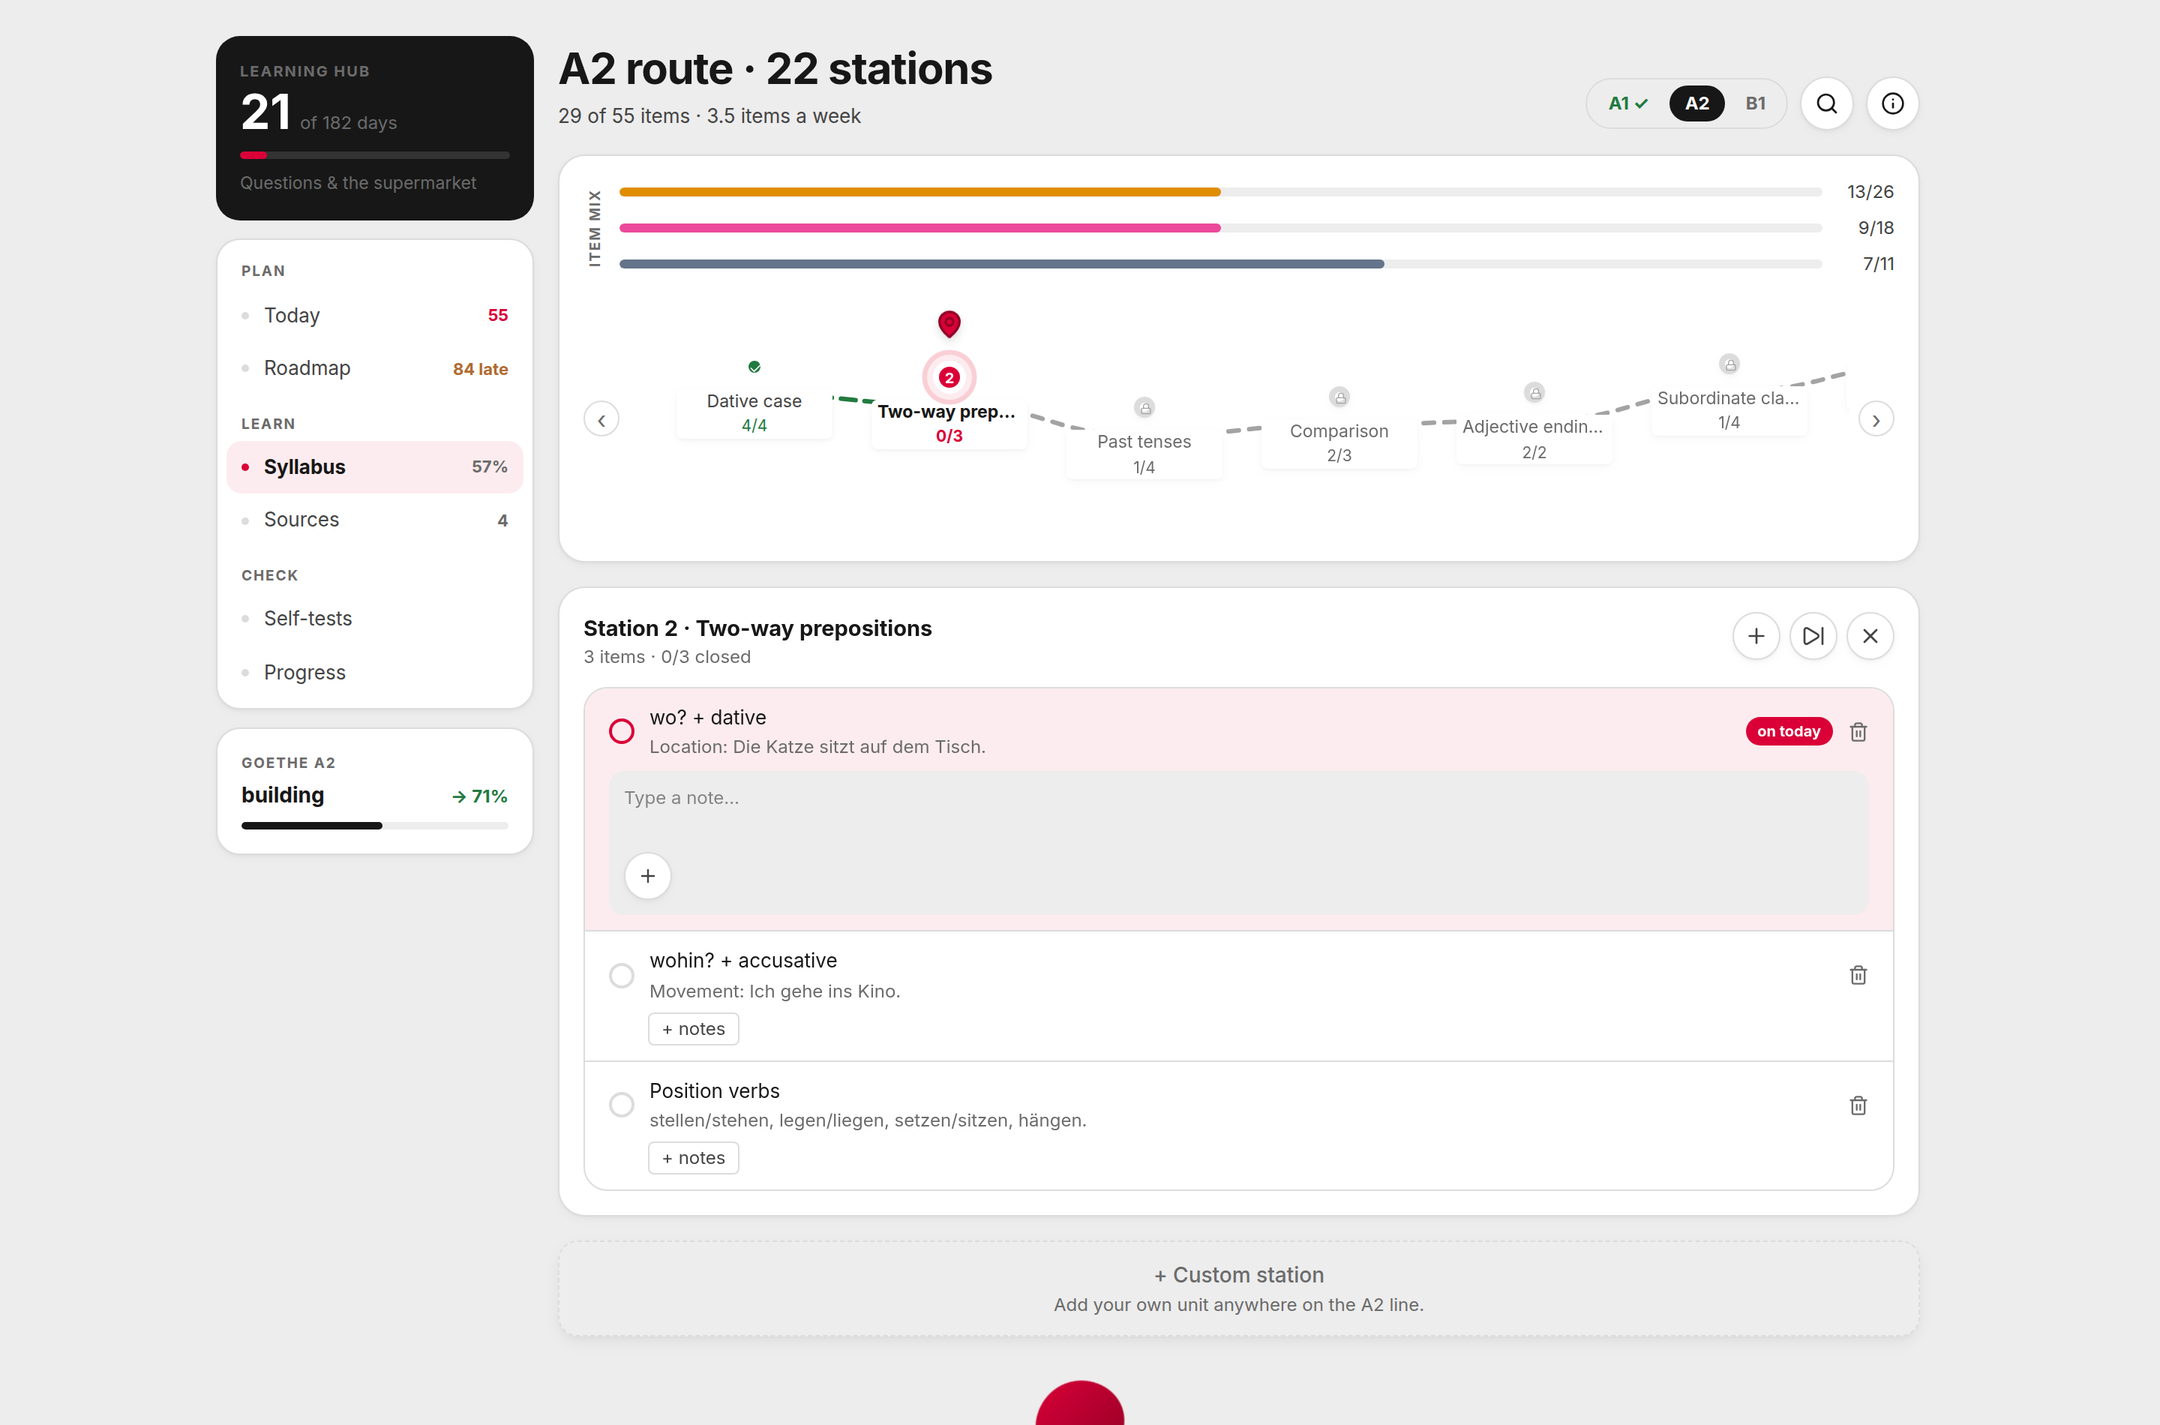
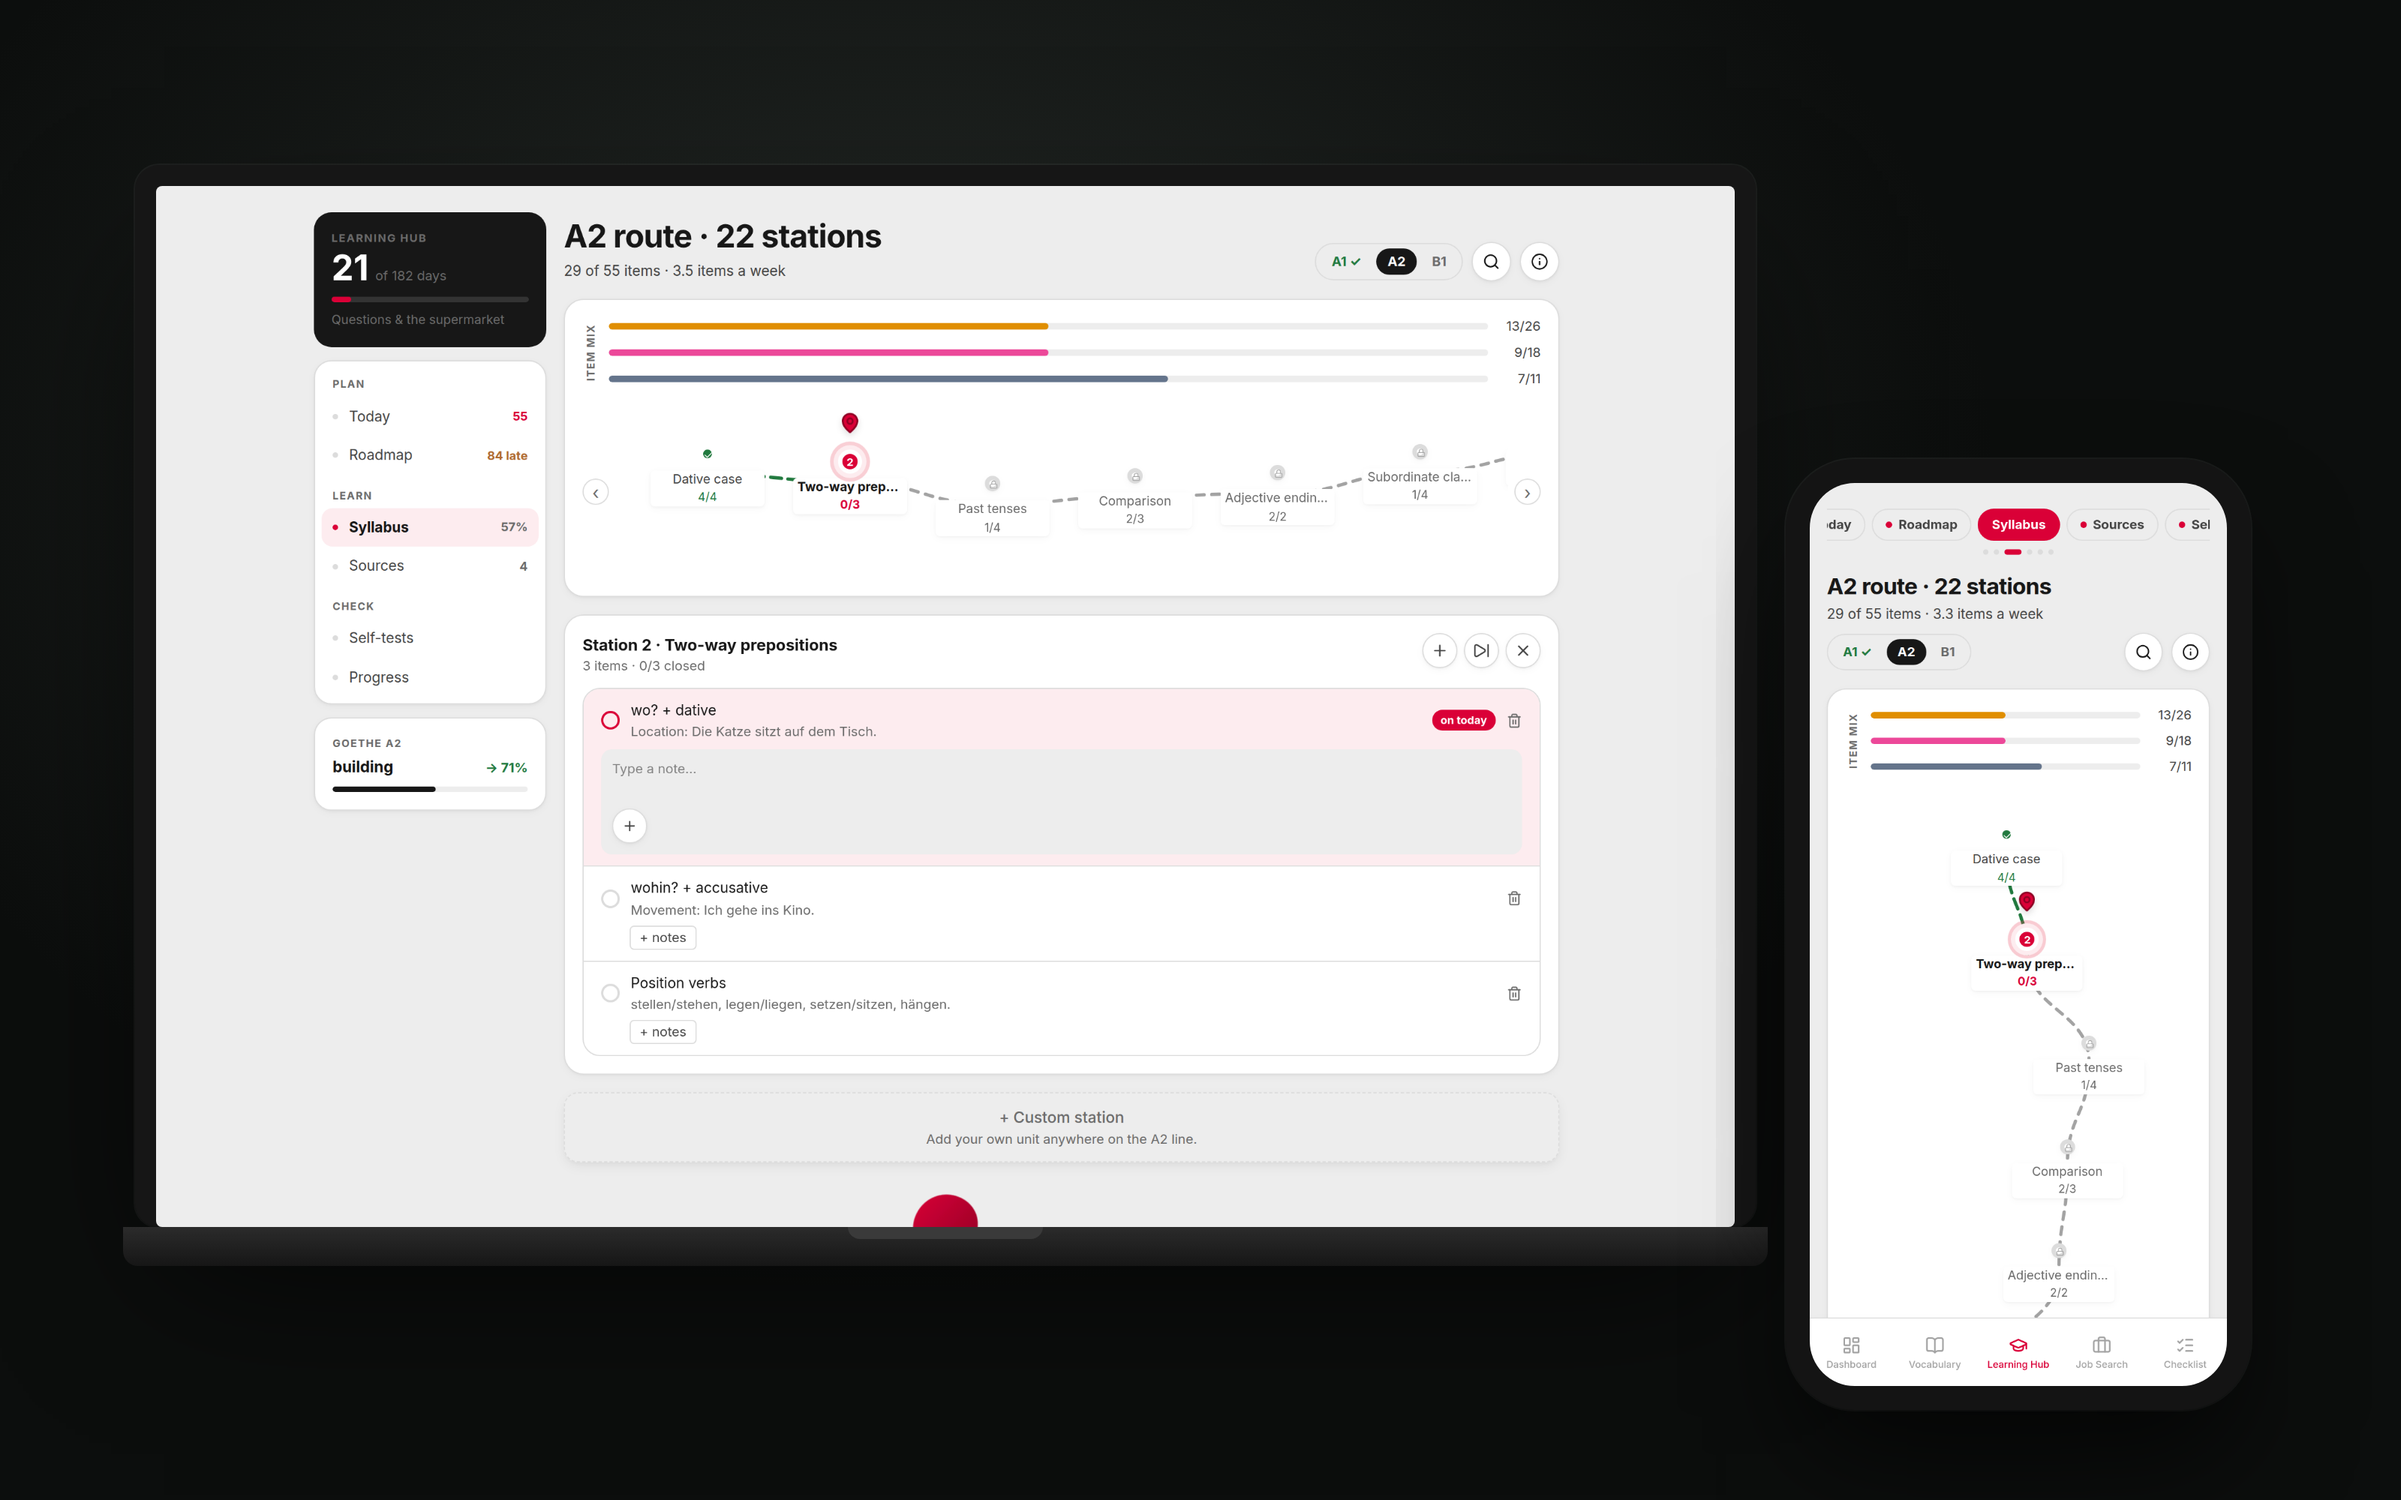
Trim README screenshots to Dashboard, Vocabulary, Syllabus only
Drop the Review/Settings/Job Search/Checklist screenshots and give
Syllabus the same laptop+phone device-mockup treatment as the other
two, so all three remaining screenshots are consistent.

diff --git a/README.md b/README.md
@@ -26,9 +26,7 @@ self-tests — feeding a richer dashboard.
 - **Daily revision** — SM-2 spaced repetition, byte-compatible with the
   [Obsidian Spaced Repetition plugin](https://github.com/st3v3nmw/obsidian-spaced-repetition)'s
   scheduling (verified against real plugin output).
-  ![Review](docs/screenshots/6-review-revealed.png)
-- **Obsidian vault sync** — the killer feature:
-  ![Settings](docs/screenshots/7-settings.png)
+- **Obsidian vault sync** — the killer feature.
 
 ### How the vault sync works
 
@@ -53,7 +51,6 @@ snapshot). Reviews done in the app and in Obsidian update the same
   required. Auto-logged timeline per application (status changes, notes,
   interviews), portal quick-links with stale-check reminders, and stats: response
   rate, interview rate, average days to response, applications per week.
-  ![Job Search](docs/screenshots/9-job-search.png)
 - **Document checklist** — seeded with ~24 items a non-EU Ausbildung applicant
   actually needs (Zeugnisse + apostille + certified translations, B1/B2
   certificate, §16a visa paperwork, VIDEX, Sperrkonto *or* salary proof,
@@ -62,7 +59,6 @@ snapshot). Reviews done in the app and in Obsidian update the same
   completion rings — urgency leads, categories filter the list rather than
   containing it. Each item carries status, **file attachments**, and a deadline
   badge that drives a "documents needing attention" section on the dashboard.
-  ![Checklist](docs/screenshots/8-checklist.png)
 
 ## What V3 adds
 
